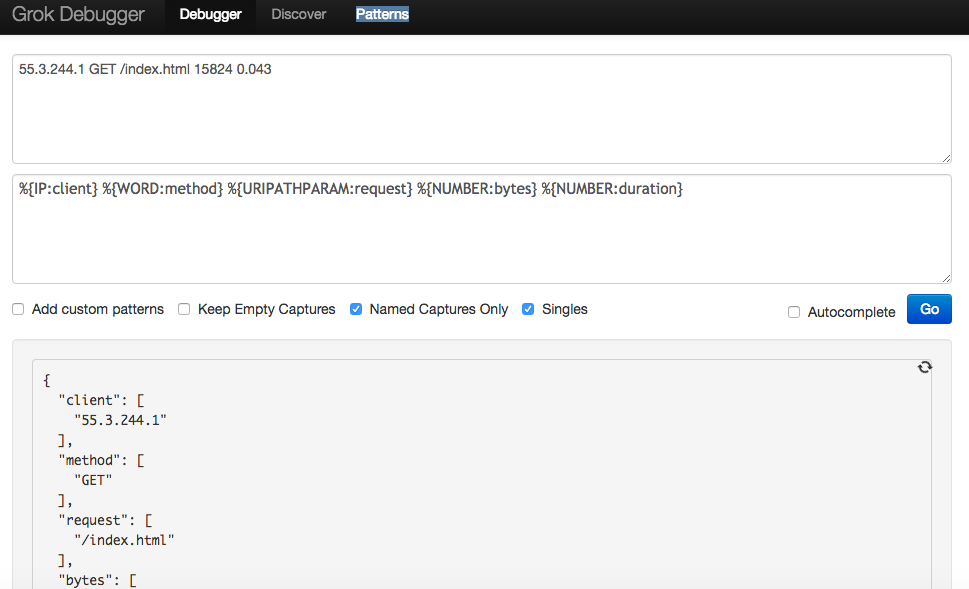
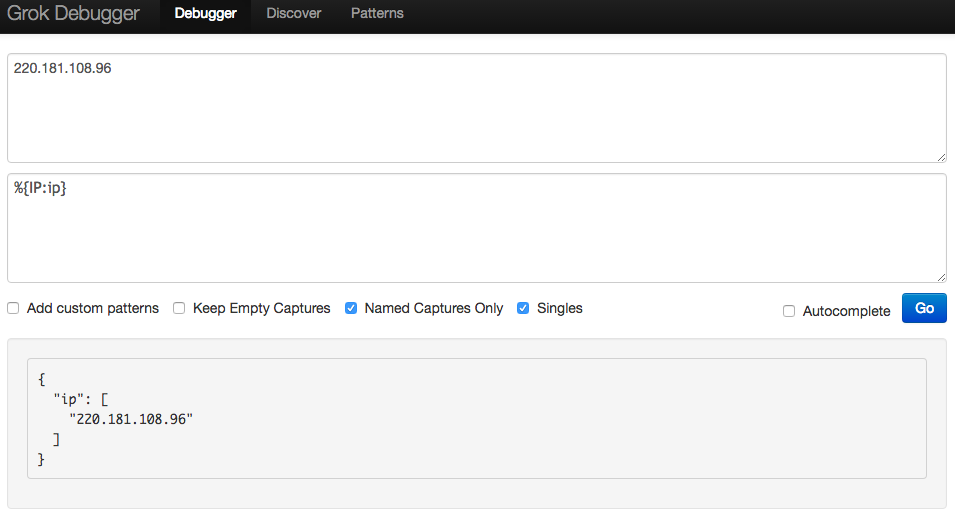
Grok patterns

diff --git a/source/_posts/Grok-patterns.md b/source/_posts/Grok-patterns.md
@@ -4,14 +4,28 @@ date: 2017-06-17 21:49:06
 tags:
 ---
 
-使用 Logstash 免不了會用到 Grok patterns，Grok patterns 其實也就只是預先定義好的正規表示式，設定怎麼匹配，以及匹配成功後的 Group name，讓設定變得更為簡易、直覺。  
+使用 Logstash 免不了會用到 Grok patterns，Grok patterns 其實也就只是用預先定義好的正規表示式來設定怎麼匹配，以及匹配成功後的 Group name，讓設定變得更為簡易、直覺。  
 
 <!-- More -->
 
 <br/>
 
 
-Grok patterns 的設定可參閱 [logstash/grok-patterns at v1.4.2 · elastic/logstash](https://github.com/elastic/logstash/blob/v1.4.2/patterns/grok-patterns)，參閱設定可更加了解要怎樣使用 Grok patterns，以及有助了解設定的 Grok patterns 為何會無法生效。  
+Grok patterns 的語法為...  
+
+    %{SYNTAX:SEMANTIC}
+
+<br/>
+
+
+SYNTAX 就是預先定義好的正規表示式，SEMANTIC 就是正規表示式匹配後的 Group name，等同於使用下面這樣的正規表示式語法。  
+
+    (?<<GroupName>><RegexPattern>)
+
+<br/>
+
+
+SYNTAX 的設定可參閱 [logstash/grok-patterns at v1.4.2 · elastic/logstash](https://github.com/elastic/logstash/blob/v1.4.2/patterns/grok-patterns)，參閱設定可更加了解要怎樣使用 SYNTAX，以及有助了解設定的 SYNTAX 為何會無法正確的匹配。  
 
 ```
 USERNAME [a-zA-Z0-9._-]+
@@ -110,10 +124,28 @@ COMBINEDAPACHELOG %{COMMONAPACHELOG} %{QS:referrer} %{QS:agent}
 LOGLEVEL ([Aa]lert|ALERT|[Tt]race|TRACE|[Dd]ebug|DEBUG|[Nn]otice|NOTICE|[Ii]nfo|INFO|[Ww]arn?(?:ing)?|WARN?(?:ING)?|[Ee]rr?(?:or)?|ERR?(?:OR)?|[Cc]rit?(?:ical)?|CRIT?(?:ICAL)?|[Ff]atal|FATAL|[Ss]evere|SEVERE|EMERG(?:ENCY)?|[Ee]merg(?:ency)?)
 ```
 
+<br/>  
+
+
+像是如果要將 IP 資料做個匹配，匹配後切到指定的欄位，就可以使用 IP SYNTAX 去做設定。  
+
+{% asset_img 1.png %}
+
 <br/>
 
 
-像是下面這樣的資料。  
+這樣的寫法也就等同於使用下面這樣的正規表示式去匹配。  
+
+    (?<ip>((([0-9A-Fa-f]{1,4}:){7}([0-9A-Fa-f]{1,4}|:))|(([0-9A-Fa-f]{1,4}:){6}(:[0-9A-Fa-f]{1,4}|((25[0-5]|2[0-4]\d|1\d\d|[1-9]?\d)(\.(25[0-5]|2[0-4]\d|1\d\d|[1-9]?\d)){3})|:))|(([0-9A-Fa-f]{1,4}:){5}(((:[0-9A-Fa-f]{1,4}){1,2})|:((25[0-5]|2[0-4]\d|1\d\d|[1-9]?\d)(\.(25[0-5]|2[0-4]\d|1\d\d|[1-9]?\d)){3})|:))|(([0-9A-Fa-f]{1,4}:){4}(((:[0-9A-Fa-f]{1,4}){1,3})|((:[0-9A-Fa-f]{1,4})?:((25[0-5]|2[0-4]\d|1\d\d|[1-9]?\d)(\.(25[0-5]|2[0-4]\d|1\d\d|[1-9]?\d)){3}))|:))|(([0-9A-Fa-f]{1,4}:){3}(((:[0-9A-Fa-f]{1,4}){1,4})|((:[0-9A-Fa-f]{1,4}){0,2}:((25[0-5]|2[0-4]\d|1\d\d|[1-9]?\d)(\.(25[0-5]|2[0-4]\d|1\d\d|[1-9]?\d)){3}))|:))|(([0-9A-Fa-f]{1,4}:){2}(((:[0-9A-Fa-f]{1,4}){1,5})|((:[0-9A-Fa-f]{1,4}){0,3}:((25[0-5]|2[0-4]\d|1\d\d|[1-9]?\d)(\.(25[0-5]|2[0-4]\d|1\d\d|[1-9]?\d)){3}))|:))|(([0-9A-Fa-f]{1,4}:){1}(((:[0-9A-Fa-f]{1,4}){1,6})|((:[0-9A-Fa-f]{1,4}){0,4}:((25[0-5]|2[0-4]\d|1\d\d|[1-9]?\d)(\.(25[0-5]|2[0-4]\d|1\d\d|[1-9]?\d)){3}))|:))|(:(((:[0-9A-Fa-f]{1,4}){1,7})|((:[0-9A-Fa-f]{1,4}){0,5}:((25[0-5]|2[0-4]\d|1\d\d|[1-9]?\d)(\.(25[0-5]|2[0-4]\d|1\d\d|[1-9]?\d)){3}))|:)))(%.+)?|(?<![0-9])(?:(?:25[0-5]|2[0-4][0-9]|[0-1]?[0-9]{1,2})[.](?:25[0-5]|2[0-4][0-9]|[0-1]?[0-9]{1,2})[.](?:25[0-5]|2[0-4][0-9]|[0-1]?[0-9]{1,2})[.](?:25[0-5]|2[0-4][0-9]|[0-1]?[0-9]{1,2}))(?![0-9]))
+
+
+{% asset_img 2.png %}
+
+<br/>
+
+
+
+如果是複雜一點的資料，像是下面這樣的資料。  
 
     55.3.244.1 GET /index.html 15824 0.043
 
@@ -125,24 +157,24 @@ LOGLEVEL ([Aa]lert|ALERT|[Tt]race|TRACE|[Dd]ebug|DEBUG|[Nn]otice|NOTICE|[Ii]nfo|
     %{IP:client} %{WORD:method} %{URIPATHPARAM:request} %{NUMBER:bytes} %{NUMBER:duration}
 
 
-{% asset_img 1.png %}
+{% asset_img 3.png %}
 
 <br/>
 
 
-如果是像下面這樣的資料。  
+如果資料是像下面這樣。  
 
     2016-09-19T18:19:00 [8.8.8.8:prd] DEBUG this is an example log message
 
 <br/>
 
 
-Grok patterns 就可以像這樣設定。  
+那 Grok patterns 則可像這樣設定。  
 
     %{TIMESTAMP_ISO8601:timestamp} \[%{IPV4:ip}:%{WORD:environment}\] %{LOGLEVEL:log_level} %{GREEDYDATA:message}
 
 
-{% asset_img 2.png %}
+{% asset_img 4.png %}
 
 <br/>
 
